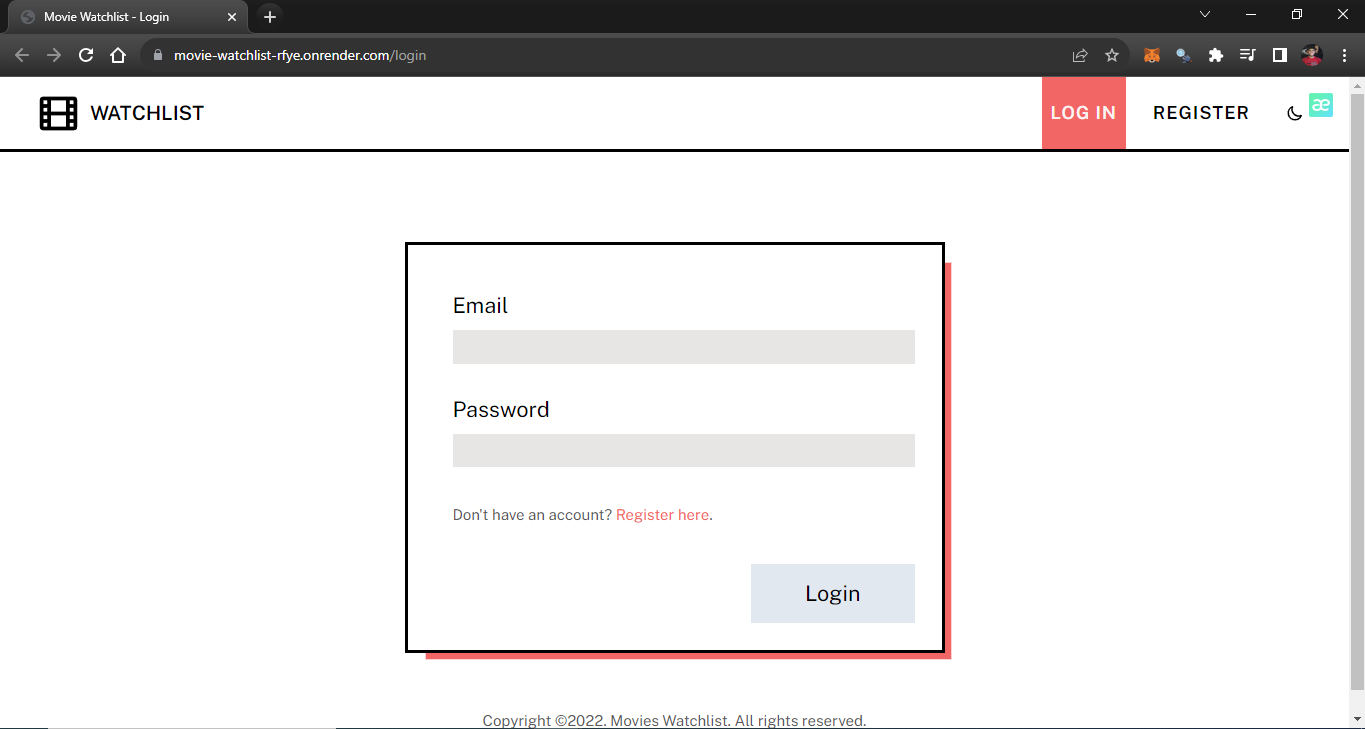
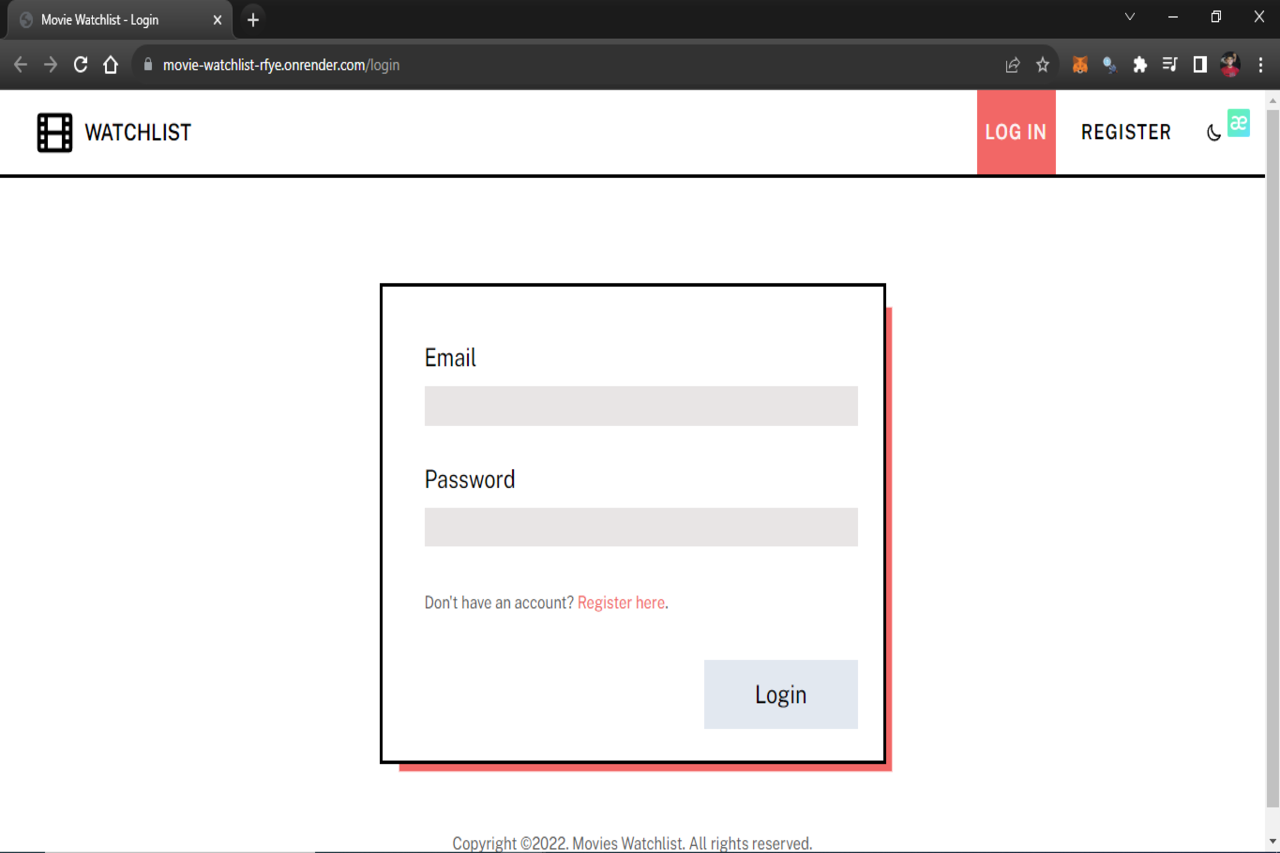
fix copyright

diff --git a/movie_library/templates/macros/footer.html b/movie_library/templates/macros/footer.html
@@ -1,5 +1,5 @@
 {% macro footer() %}
     <footer class="footer">
-        <small>Copyright &copy;2022. Movies Watchlist. All rights reserved.</small>
+        <small>Copyright &copy;2023. Movies Watchlist. All rights reserved.</small>
     </footer>
 {% endmacro %}
